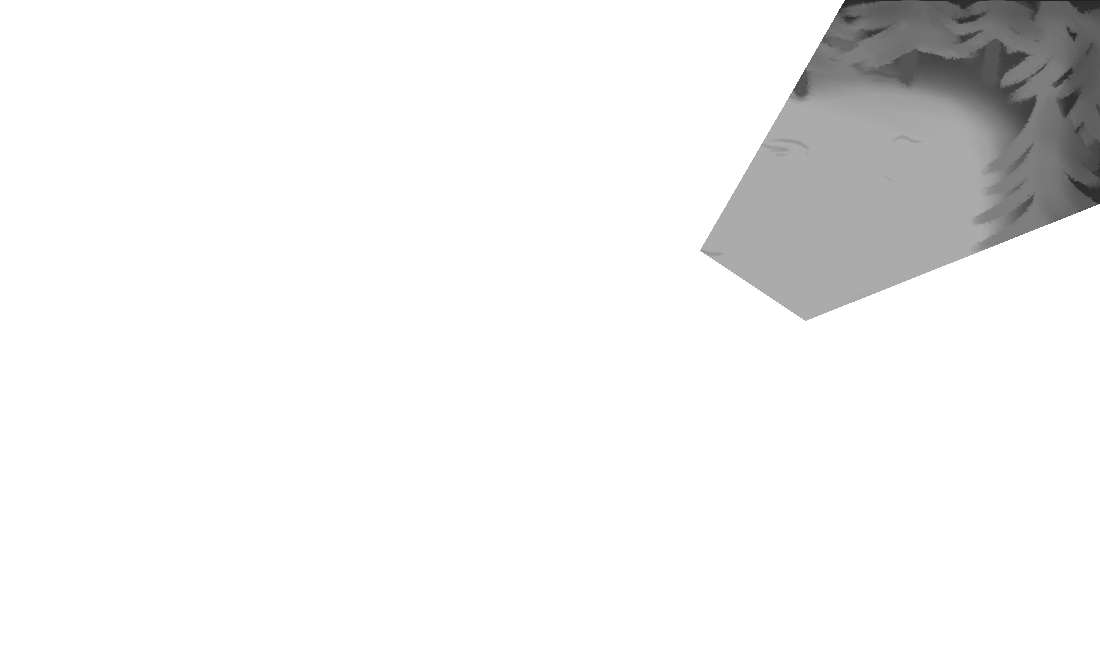
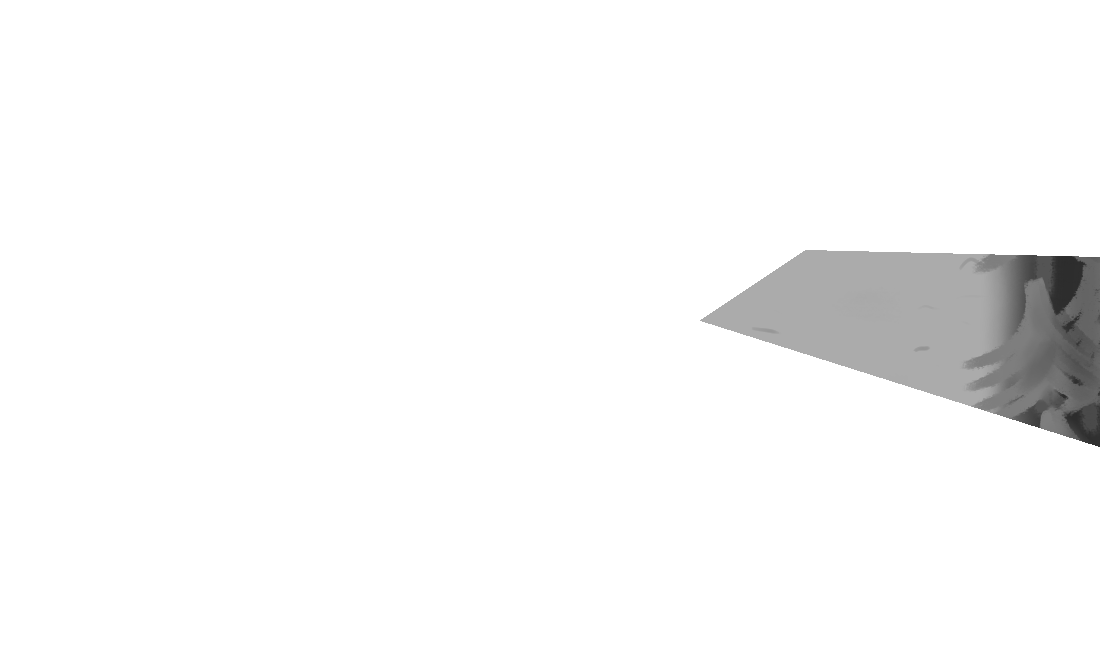
added second snowman shooting animation

Changed region(s): [[0.6182, 0.0, 1.0, 0.7077]]

diff --git a/Snowman.py b/Snowman.py
@@ -18,6 +18,7 @@ class Snowman:
     COOLDOWN = 1
     WIDTH = 25
     HEIGHT = 50
+    ANIMATION_RATE = 7
 
     def __init__(self, location, goal, health, speed, damage, throwing_range, points):
         self.x = location[0]
@@ -31,8 +32,11 @@ class Snowman:
         self.reached_goal = False
         self.time_since_last_shot = 0
         self.points = points
+        self.shooting = False
+        self.animation_step = 0
+        self.frame = 0
 
-    def draw(self, win, firstsnowman):
+    def draw(self, win, snowman, snowmanshooting):
         # aidan walking cycle
         pygame.draw.rect(win, (255, 255, 255), (self.x - self.WIDTH // 2, self.y - self.HEIGHT // 2, self.WIDTH, self.HEIGHT))
 
@@ -69,6 +73,7 @@ class Snowman:
     def shoot(self):
         if self.reached_goal:
             if time.time() - self.time_since_last_shot >= self.COOLDOWN:
+                self.shooting = True
                 self.time_since_last_shot = time.time()
                 return Projectiles.Snowball(self.x, self.y, (self.goal.x, self.goal.y), 6, 1, 5, self.goal)
 
@@ -114,7 +119,7 @@ class first_snowman(Snowman):
         if move_y:
             self.y = y
 
-    def draw(self, win, firstsnowman):
+    def draw(self, win, firstsnowman, snowmanshooting):
         if 150 <= self.x <= 900 and (self.y < 250 or self.y > 400):
             if self.y <= 325:
                 win.blit(firstsnowman[1], (self.x - self.WIDTH // 2-30, self.y - self.HEIGHT))
@@ -128,18 +133,35 @@ class first_snowman(Snowman):
 
 
 class second_snowman(Snowman):
-    def draw(self, win, secondsnowman):
-        if self.x >= 150 and self.x <= 900 and (self.y < 250 or self.y > 400):
-            if self.y <= 325:
-                win.blit(secondsnowman[1], (self.x - self.WIDTH// 2 - 50, self.y - self.HEIGHT))
+    def draw(self, win, secondsnowman, secondsnowmanshooting):
+        self.frame += 1
+
+        if self.frame % (self.ANIMATION_RATE * 3) == 0:
+            if self.shooting:
+                self.shooting = False
+
+        if self.shooting:
+            if self.y <= 200:
+                win.blit(secondsnowmanshooting[1], (self.x - self.WIDTH// 2 - 50, self.y - self.HEIGHT))
+            elif self.y >= 450:
+                win.blit(secondsnowmanshooting[0], (self.x - self.WIDTH// 2 - 50, self.y - self.HEIGHT))
+            elif self.x <= 450:
+                win.blit(secondsnowmanshooting[2], (self.x - self.WIDTH// 2 - 50, self.y - self.HEIGHT))
             else:
-                win.blit(secondsnowman[0], (self.x - self.WIDTH // 2 - 50, self.y - self.HEIGHT))
+                win.blit(secondsnowmanshooting[3], (self.x - self.WIDTH// 2 - 50, self.y - self.HEIGHT))
+
         else:
-            if self.x <= 550:
-                win.blit(secondsnowman[2], (self.x - self.WIDTH // 2 - 50, self.y - self.HEIGHT))
+            if self.x >= 150 and self.x <= 900 and (self.y < 250 or self.y > 400):
+                if self.y <= 325:
+                    win.blit(secondsnowman[1], (self.x - self.WIDTH// 2 - 50, self.y - self.HEIGHT))
+                else:
+                    win.blit(secondsnowman[0], (self.x - self.WIDTH // 2 - 50, self.y - self.HEIGHT))
             else:
-                win.blit(secondsnowman[3], (self.x - self.WIDTH // 2 - 50, self.y - self.HEIGHT))
-        #pygame.draw.rect(win, (0, 0, 0), (self.x - self.WIDTH // 2, self.y - self.HEIGHT // 2, self.WIDTH, self.HEIGHT))
+                if self.x <= 550:
+                    win.blit(secondsnowman[2], (self.x - self.WIDTH // 2 - 50, self.y - self.HEIGHT))
+                else:
+                    win.blit(secondsnowman[3], (self.x - self.WIDTH // 2 - 50, self.y - self.HEIGHT))
+        pygame.draw.rect(win, (0, 0, 0), (self.x - self.WIDTH // 2, self.y - self.HEIGHT // 2, self.WIDTH, self.HEIGHT))
 
 
 class third_snowman(Snowman):
@@ -161,7 +183,7 @@ def spawn_firstsnowman(width, height, campfire):
     speed = 2
     damage = 1
     throwing_range = 200
-    points = 5
+    points = 150
     return first_snowman(get_snowman_location(width, height, campfire.BORDER), campfire, health, speed, damage, throwing_range, points)
 
 

diff --git a/Main.py b/Main.py
@@ -54,6 +54,9 @@ second_snowman = [pygame.image.load('assets/Second-snowman-' + str(i) + ".png") 
 secondsnowman_left_image = pygame.transform.flip(pygame.image.load('assets/Second-snowman-3.png'), True, False)
 second_snowman.append(secondsnowman_left_image)
 
+second_snowman_shooting = [pygame.image.load('assets/Second-snowman-shooting-' + str(i) + ".png") for i in range(1, 4)]
+secondsnowman_leftshooting_image = pygame.transform.flip(pygame.image.load('assets/Second-snowman-shooting-3.png'), True, False)
+second_snowman_shooting.append(secondsnowman_leftshooting_image)
 
 clock = pygame.time.Clock()
 lost = False
@@ -67,7 +70,7 @@ score = 0
 SCORE_FONT = pygame.font.SysFont('comicsans', 60)
 
 
-def update(player, fireballs, small_snowballs, big_snowballs,campfire, first_snowmen, second_snowmen, third_snowmen,boulders, keys, mousepos):
+def update(player, fireballs, small_snowballs, big_snowballs,campfire, first_snowmen, second_snowmen, third_snowmen,secondsnowman_shooting,boulders, keys, mousepos):
     win.blit(background, (0, 0))
 
     campfire.draw(win, campfires)
@@ -89,10 +92,10 @@ def update(player, fireballs, small_snowballs, big_snowballs,campfire, first_sno
         snowball.draw(win, SMALL_SNOWBALL)
 
     for firstsnowman in first_snowmen:
-        firstsnowman.draw(win, first_snomwan)
+        firstsnowman.draw(win, first_snomwan, secondsnowman_shooting)
 
     for secondsnowman in second_snowmen:
-        secondsnowman.draw(win, second_snowman)
+        secondsnowman.draw(win, second_snowman, secondsnowman_shooting)
 
     win.blit(trees, (0, 0))
 
@@ -138,6 +141,7 @@ def main():
                 run = False
             if event.type == pygame.MOUSEBUTTONDOWN:
                 if event.button == pygame.BUTTON_LEFT:
+                    print(mousepos)
                     fireball = player.shoot(mousepos)
                     if fireball is not None:
                         fireballs.append(fireball)
@@ -205,7 +209,7 @@ def main():
         campfire.spawn_wood()
 
         player.update(keys, campfire, boulders)
-        update(player, fireballs, small_snowballs, big_snowballs,campfire, first_snowmen, second_snowmen, third_snowmen,boulders, keys, mousepos)
+        update(player, fireballs, small_snowballs, big_snowballs,campfire, first_snowmen, second_snowmen, third_snowmen,second_snowman_shooting,boulders, keys, mousepos)
 
 
 if __name__ == "__main__":
